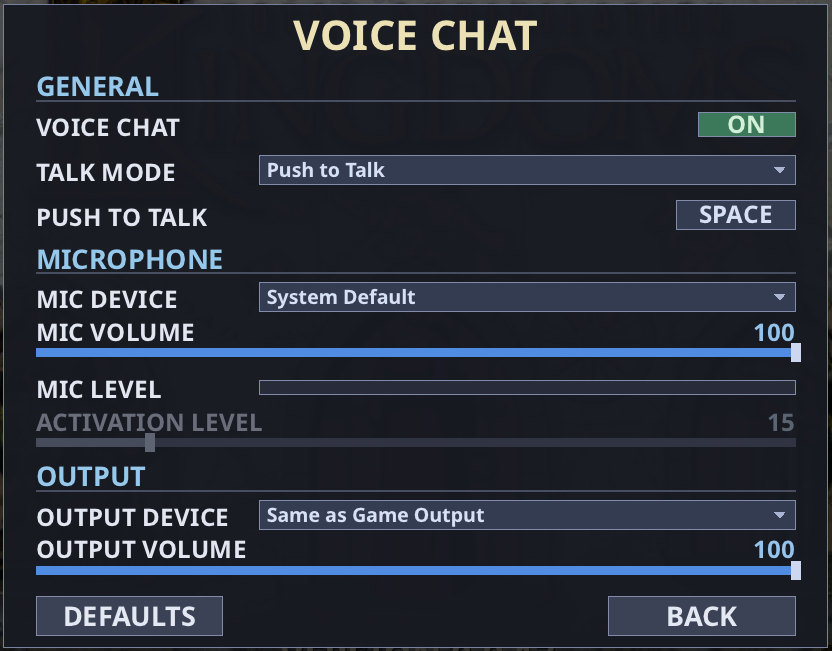
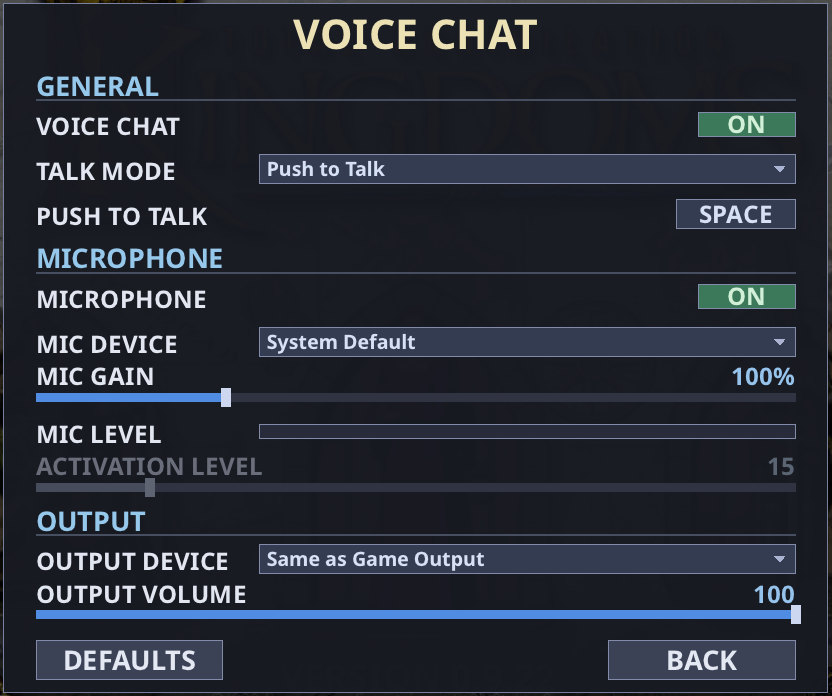
Docs: retake the Diplomacy and Voice Chat pictures for 0.9.22
diplomacy.jpg shows the SPECTATORS line and the allies-only CHAT/VOICE
defaults; guide/voice-chat.jpg the MICROPHONE row and MIC GAIN (832 x 696,
one row taller). Alt text and the picture log updated.

Claude-Session: https://claude.ai/code/session_01DLiMWrKYHUMBLp8Vqt4ANr

diff --git a/docs/img/README.md b/docs/img/README.md
@@ -3,9 +3,16 @@
 **Retaken for 0.9.22** (2026-11-07): `title.jpg` only, by the 0.9.22 build (Debug of
 `main` at `ac1f9dac` with the 0.9.22 version line), with the 0.9.1 title capture (script
 `title.sh` in `~/tak-tmp/scratch/release-0922/shots/`), cropped to the artwork as before;
-it reads VERSION 0.9.22. Nothing else was retaken. The Diplomacy picture (`diplomacy.jpg`)
-predates the SPECTATORS line and the allies-only defaults, and the Voice Chat pictures
-predate MICROPHONE and MIC GAIN.
+it reads VERSION 0.9.22. Then, after the release, `diplomacy.jpg` and
+`guide/voice-chat.jpg` for the SPECTATORS line, the allies-only defaults, MICROPHONE and
+MIC GAIN: a Debug `-O2` build of `main` at `48f08a7c` with capture-only hooks in a
+worktree (not committed; `capture-hooks-0922.diff` in `~/tak-tmp/scratch/release-0922/shots/`),
+offscreen GL, scratch profiles from the 0.9.1 capture settings with `voiceEnabled = 1`, the
+0.9.1 scratch install. `diplomacy.jpg`: the `TAK_DIPLOMACY_TEST` fixture, 1600 x 1000,
+uncropped, with a voice engine that is on and the CHAT and VOICE columns set as a game
+starts (you and ALLY ticked, SPECTATORS off). `guide/voice-chat.jpg`:
+`TAK_CAP_VOICEPAGE=1`, 1600 x 900, cropped to the panel, now 832 x 696 at (384, 102)
+(one row taller). JPEG quality 86.
 
 **Earlier: retaken for 0.9.21** (2026-11-07): `title.jpg` only, by the 0.9.21 build (Debug of
 `main` at `b95091e7` with the 0.9.21 version line), with the 0.9.1 title capture (script
@@ -472,7 +479,7 @@ simulation code. Every scene runs the normal game rules, AI and renderer.
 | `room.jpg` | Single-player room on Ulasem Arena with three Normal AIs (Taros, Veruna, Zhon) added by clicks, Crusades and Double Sight on, Legion pathfinding and both example cosmetic packs ticked (placeholder folders in the scratch install); under the COSMETIC MODS heading ALWAYS ON: click (the always-enabled pack folder), then the pack names, the GAME MODS list below (no game pack ticked and no always-enabled game pack, so no GAME MODS VERIFIED line). The open rows 5 to 8 each have a **MOVE HERE** button. The match rules end with MAP SCENARIO: OFF. The map at the top of the right column marks starts 1 to 4 in the colours of the four seated players. The AI names are the lobby's own random picks. Rendered by the 0.9.0 build, 1600 × 1000; the CREATE screen's toggles, slot types, sides and pack boxes were clicked with `TAK_SHOT_CLICKS`, then the pointer moved off the panel |
 | `campaign.jpg` | Book of Darien campaign picker with a fresh profile, chapter 1. The CHAPTER heading and numeral are retail lettering; the chapter title and the always-on mods note (click, the always-enabled pack folder, in dark ink on the parchment) are in the UI font. No Opponent AI line: missions always play the Retail AI. Rendered by the 0.9.0 build, 1600 × 1000, with `TAK_SHOT_CAMPAIGN=0` |
 | `streaming.jpg` | Retaken for 0.9.17 (Options-scale layout). Streaming setup with no key or broadcast: a large centred YOUTUBE STREAMING title, KEY NOT SET with **Paste**, the **Remember Key** row (off; the Secret Service is available), resolution, frame rate 60, bitrate 6000 Kbps with **Recommended**, encoder Automatic, the **Save a Local Copy** row (off, the default; MP4 IN THE VIDEOS FOLDER), Start Streaming, the status OFF with its counters, and **Back** at the bottom right. Rendered by the 0.9.17 build at 1600 × 1000 (`TAK_SHOT_STREAM=1`), not cropped, with the debug `TAK_CREDSTORE=test` store so no real key could appear |
-| `diplomacy.jpg` | Built-in input-test fixture (the debug `TAK_DIPLOMACY_TEST` harness, `--testbuild`) after gifting, 1600 × 1000, in a profile with voice chat on (capture-only patch: the fixture keeps a voice engine that is on, so the sliders draw live). The VOICE column ticks every other player (your own box is shown, greyed); VOLUME has sliders for the two other humans, left by the fixture at 50% (ALLY) and 25% (DEFEATED), and none for the computer player (ENEMY). Elsin stays selected, so the bar shows her portrait, name and health and mana only. Rendered by the 0.9.0 build |
+| `diplomacy.jpg` | Built-in input-test fixture (the debug `TAK_DIPLOMACY_TEST` harness, `--testbuild`) after gifting, 1600 × 1000, in a profile with voice chat on (capture-only hooks: the fixture keeps a voice engine that is on, so the sliders draw live, and its CHAT and VOICE columns are set as a game starts). CHAT and VOICE tick you and ALLY only (your own VOICE box greyed); ENEMY and DEFEATED are unticked; the SPECTATORS line's boxes are off. VOLUME has sliders for the two other humans, left by the fixture at 50% (ALLY) and 25% (DEFEATED), and none for the computer player (ENEMY). Retaken for 0.9.22 |
 | `results.jpg` | Built-in five-player **sample statistics** (`TAK_SHOT_RESULT`), not a finished match. Hardware cursor on, so no pointer is drawn. Rendered by the 0.9.0 build |
 | `cartographer.png` | Cartographer Units tab on Ulasem Arena: the five-tool toolbar (TERRAIN, FEATURES, UNITS, STARTS, BLOCKED), the browser with its scrollbar, and the minimap. A fresh editor profile, `--shot --shot-tool units`, 30% zoom. Retaken by the 0.9.0 build; the output is byte-identical to the 0.8.3 picture, which already had the five tools |
 
@@ -497,7 +504,7 @@ replace them. The unchanged views contain no version text.
 | `replay.jpg` | Replay playback of a recorded local-server game, 9 s of 16 s, with the time bar. **Stress-test start**: an Aramon army given one Legion move order (**scripted orders**). Recorded and played back by the 0.9.0 build |
 | `benchmark.jpg` | From the 0.9.0 build. Benchmark run (Absurd), 55 s in; the BENCHMARKING badge counts down the remaining time (0:05 of 60 s): armies meet at the edge of a sandy clearing, with health bars for every side; scaled from 1920 × 1080 |
 | `scorecard.jpg` | From the 0.9.0 build. F4 scorecard over a benchmark battle (Absurd), 55 s in, at 1.1× zoom: eight AI players with kills, losses and score; captured at 1920 × 1080 (so the BENCHMARKING badge clears the Score column) and scaled |
-| `voice-chat.jpg` | Retaken for 0.9.17 (footer DEFAULTS bottom left, BACK bottom right). The Voice Chat page opened from the menu (capture-only patch), 1600 × 900, cropped to the panel. The capture profile with `voiceEnabled = 1`; every other voice setting is at its default: TALK MODE PUSH TO TALK, PUSH TO TALK on SPACE, SYSTEM DEFAULT microphone at 100, ACTIVATION LEVEL 15 (greyed out under Push to Talk), SAME AS GAME OUTPUT at 100. No voice engine runs under `--shot`, so MIC LEVEL is empty |
+| `voice-chat.jpg` | Retaken for 0.9.22 (MICROPHONE row, MIC GAIN). The Voice Chat page opened from the menu (capture-only hook), 1600 × 900, cropped to the panel (832 × 696). The capture profile with `voiceEnabled = 1`; every other voice setting is at its default: TALK MODE PUSH TO TALK, PUSH TO TALK on SPACE, MICROPHONE ON, SYSTEM DEFAULT microphone at MIC GAIN 100%, ACTIVATION LEVEL 15 (greyed out under Push to Talk), SAME AS GAME OUTPUT at 100. No voice engine runs under `--shot`, so MIC LEVEL is empty |
 | `random-map-lobby.jpg` | Single-player create screen with **Generate Random Map** clicked, then SIZE clicked once (12 × 12), PLAYERS twice (4) and the SCATTERED MANA slider set to HIGH (`TAK_SHOT_CLICKS`, see *Lobby captures*). The preview reads MANA: 57 and SCATTERED: 33 NEUTRAL. Captured live at 1600 × 1000 with `TAK_SHOT_SIZES` by the 0.9.0 build, cropped to 1500 × 900 (from x 100), not scaled. The seed is the lobby's own random one |
 | `chat-box.jpg` | Recaptured by the 0.9.0 build. The in-game chat box at its defaults (Chat Position Centered, Chat Scale 100%) sitting above the build row and its TRAINING Horseman (10) line, on Ulasem Arena, 1600 × 900, cropped to the box, the row and the information bar (1240 × 340, not scaled). **Selection still life** (`--testbuild`, `TAK_SELPORTRAITS=arakeep:1`): a Barracks selected, with a Horseman queue of ten started by the capture patch; the information bar's Horseman gauge follows the new unit's health. Four chat lines put into the box by the capture patch with fixed names (Ludwin, Aldric, Kirenna, Pat) in their player colours, and *on my way* being typed after SAY: |
 | `options-interface.jpg` | Retaken for 0.9.17. Options screen in a 1600 × 1100 window scrolled to the end (`TAK_CAP_OPTIONS=40`), cropped to the Interface section (824 × 452): MODERN UI FONT ON, F4 SCORECARD SCALE and UI SCALE 100%, HEALTH BARS Damaged, STATS PANEL ON, BUILD MENU Center, BUILD MENU SCALE 100%, CHAT POSITION Centered and CHAT SCALE 100% (Health Bars, Build Menu and Chat Position are dropdowns); a fresh profile whose only setting is `fullscreen = 0`, all defaults |

diff --git a/docs/user-guide.md b/docs/user-guide.md
@@ -2283,9 +2283,9 @@ Press **D** for the **Diplomacy** screen:
   the start of each game.
 - **Volume**: how loud each other player's voice plays for you.
 
-![The Diplomacy screen listing four players with Share Mana, Chat and Voice checkboxes, Volume sliders at 50% and 25% for the two other human players, and a Give Selected Units button](img/diplomacy.jpg)
+![The Diplomacy screen listing four players with Share Mana, Chat and Voice checkboxes: Chat and Voice ticked for you and your ally only, as each game starts, Volume sliders at 50% and 25% for the two other human players, a Give Selected Units button, and a Spectators line with its Chat and Voice boxes off](img/diplomacy.jpg)
 
-*The Diplomacy screen (**D**), from the engine's built-in input test, with voice chat on. The computer player (ENEMY) has no Volume slider.*
+*The Diplomacy screen (**D**), from the engine's built-in input test, with voice chat on, as a game starts: chat and voice reach your ally only, and the Spectators line is off. The computer player (ENEMY) has no Volume slider.*
 
 The screen lists every player; the gift buttons and mana boxes appear only for
 allies, and chat and voice start on for your allies only (tick the others to
@@ -2462,7 +2462,7 @@ player with it off cannot talk and is sent no voice at all.
 
 While **Voice chat** is off, every other row is greyed out and ignores clicks.
 
-![The Voice Chat page with voice chat on, Talk mode Push to Talk on Space, System Default microphone at volume 100 with an empty level meter, Activation level 15 greyed out, and output Same as Game Output at volume 100](img/guide/voice-chat.jpg)
+![The Voice Chat page with voice chat on, Talk mode Push to Talk on Space, Microphone on, System Default microphone at Mic gain 100% with an empty level meter, Activation level 15 greyed out, and output Same as Game Output at volume 100](img/guide/voice-chat.jpg)
 
 | Option | Default | What it does |
 | --- | --- | --- |
